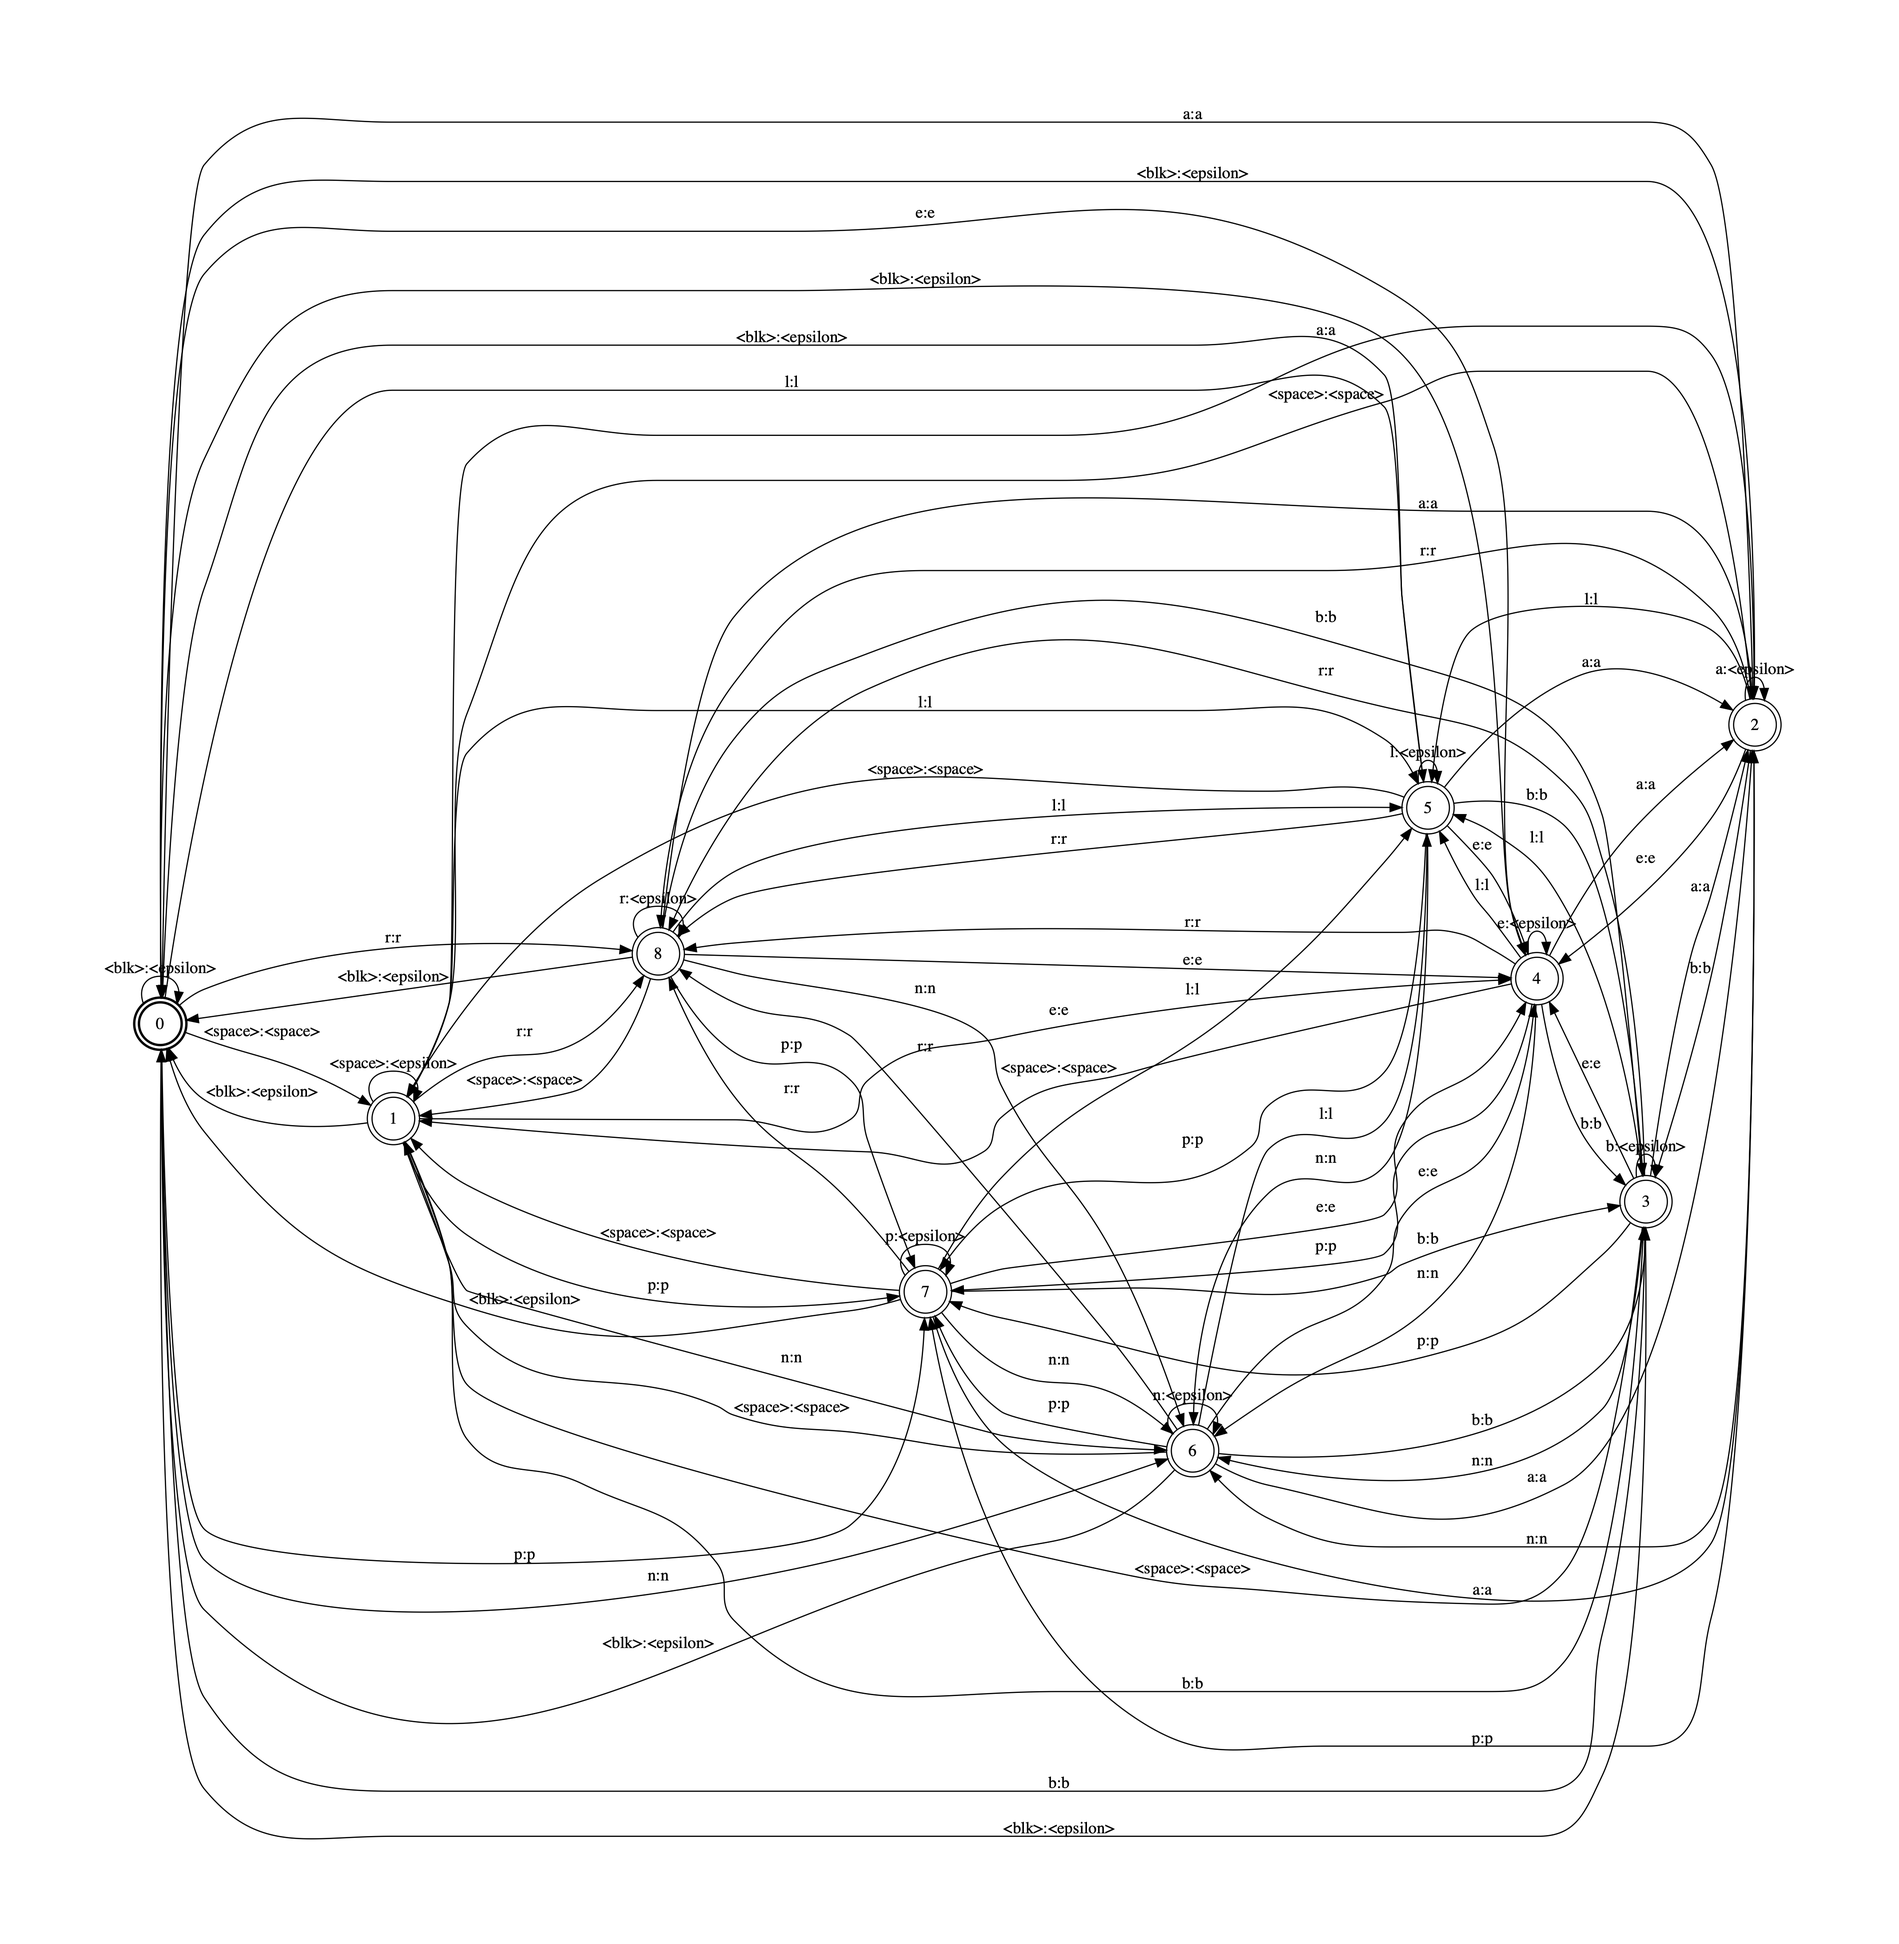
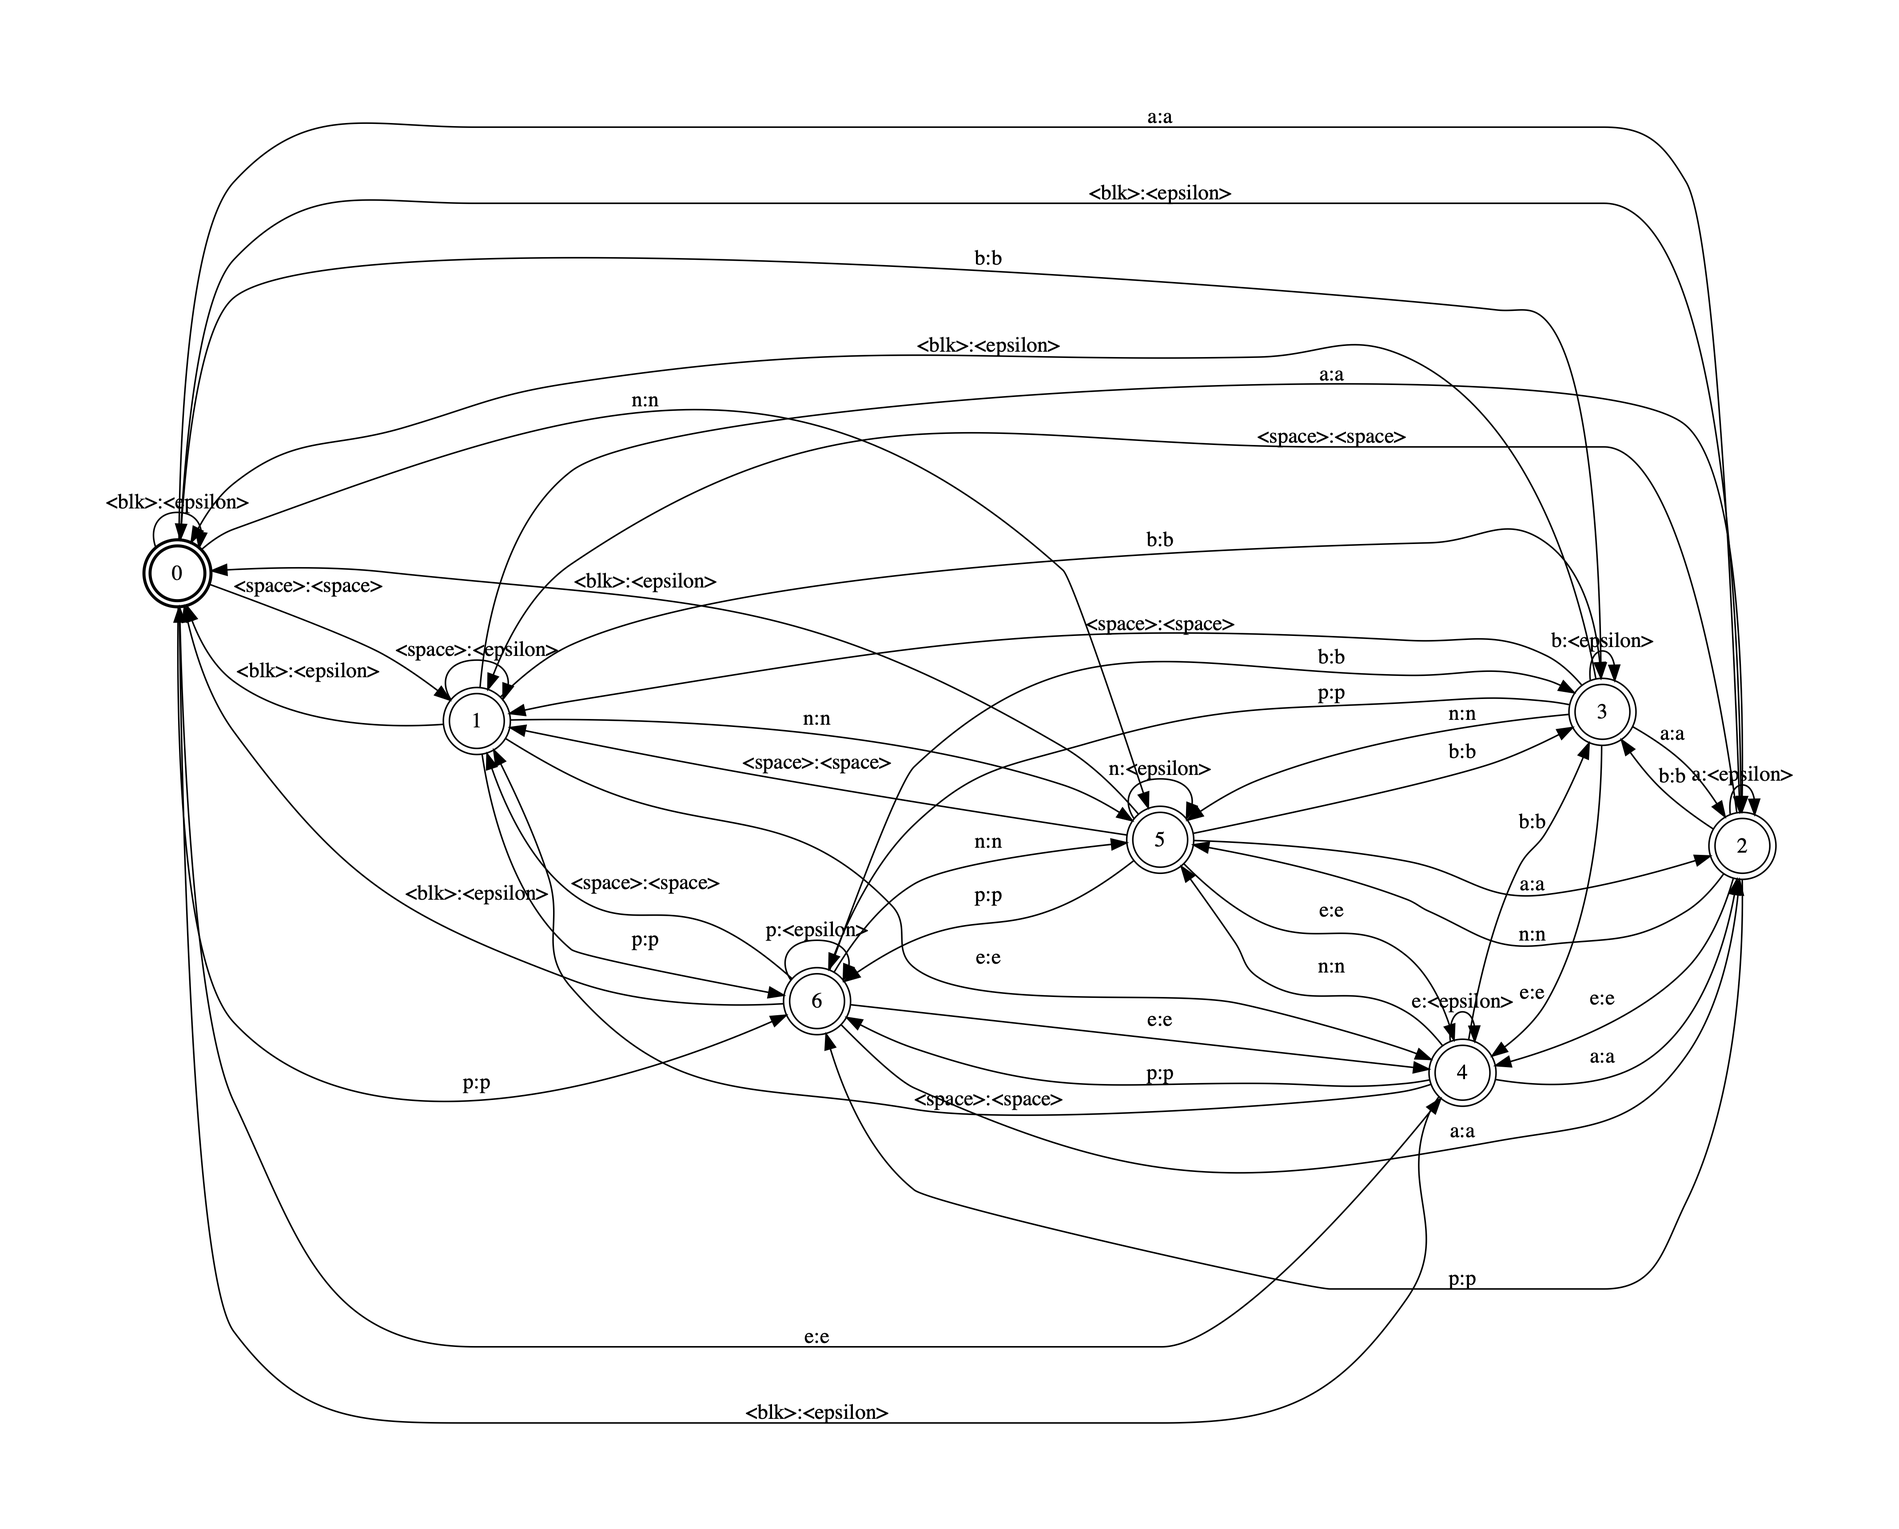
update with better example

diff --git a/tlg/README.md b/tlg/README.md
@@ -87,8 +87,9 @@ because OpenFST's generic composition treats `<epsilon>` as a special symbol.
 Now we are ready to construct TLG graph for CTC.
 First, we create T graphs.
 ```bash
-echo "a b e l n p r" | python create_t.py
+echo "a b e n p" | python create_t.py
 ```
+
 This will create three files: `tokens.syms`, `tokens.txt`, and `tokens_self.txt`.
 Let's compile `tokens.txt` and `tokens_self.txt` into FSTs.
 `tokens.txt` is CTC's mapping from acoustic output token T to lexical character.
@@ -122,7 +123,7 @@ fstcompile --isymbols=tokens.syms --osymbols=lexicon.syms --keep_isymbols --keep
 ![alt text](L.png "CTC T expanded graph")
 
 One thing to note here is that we have to make sure repetitive space characters is non-emitting.
-This is because `<space> <space> p e a r <space> <space> <blk> <space>` should map to `pear` regardless of extra spaces.
+This is because `<space> <space> a n <space> <space> <blk> <space>` should map to `an` regardless of extra spaces.
 
 Finally, we create grammar G graph using KenLM.
 ```bash
@@ -148,7 +149,7 @@ We now phi-compose L and G to create LG graph.
 
 Lastly, we compose T with LG to obtain TLG graph.
 ```bash
-fstcompose T.fst LG.fst | fstminimize - TLG.fst
+fstarcsort LG.fst | fstcompose T.fst - | fstrmepsilon | fstdeterminize | fstminimize - TLG.fst
 ```
 
 ![alt text](TLG.png "CTC TLG graph fully expanded")
